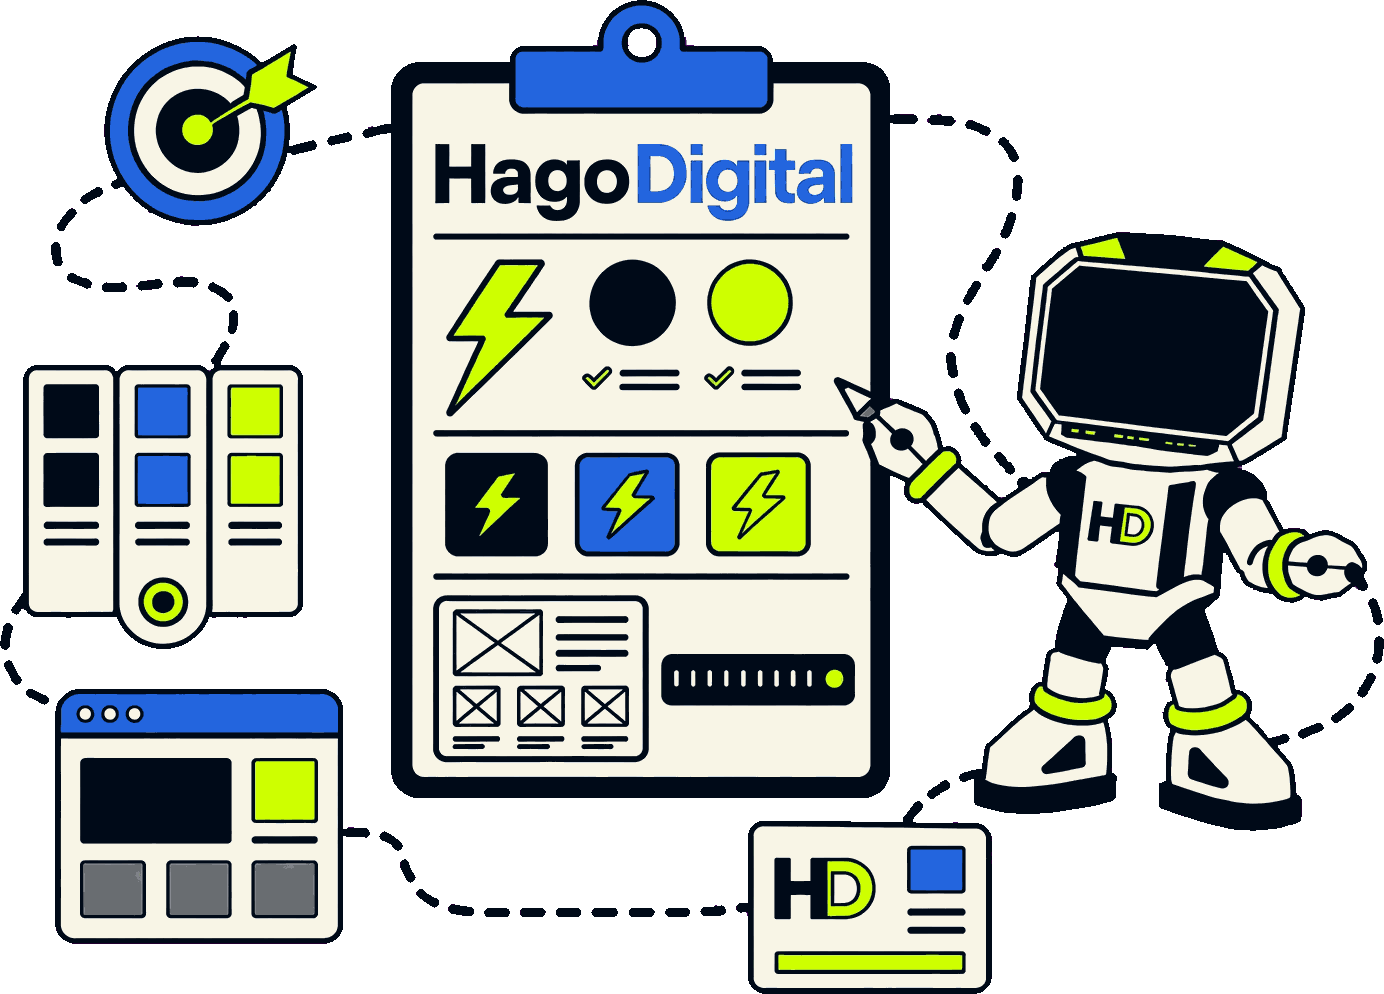
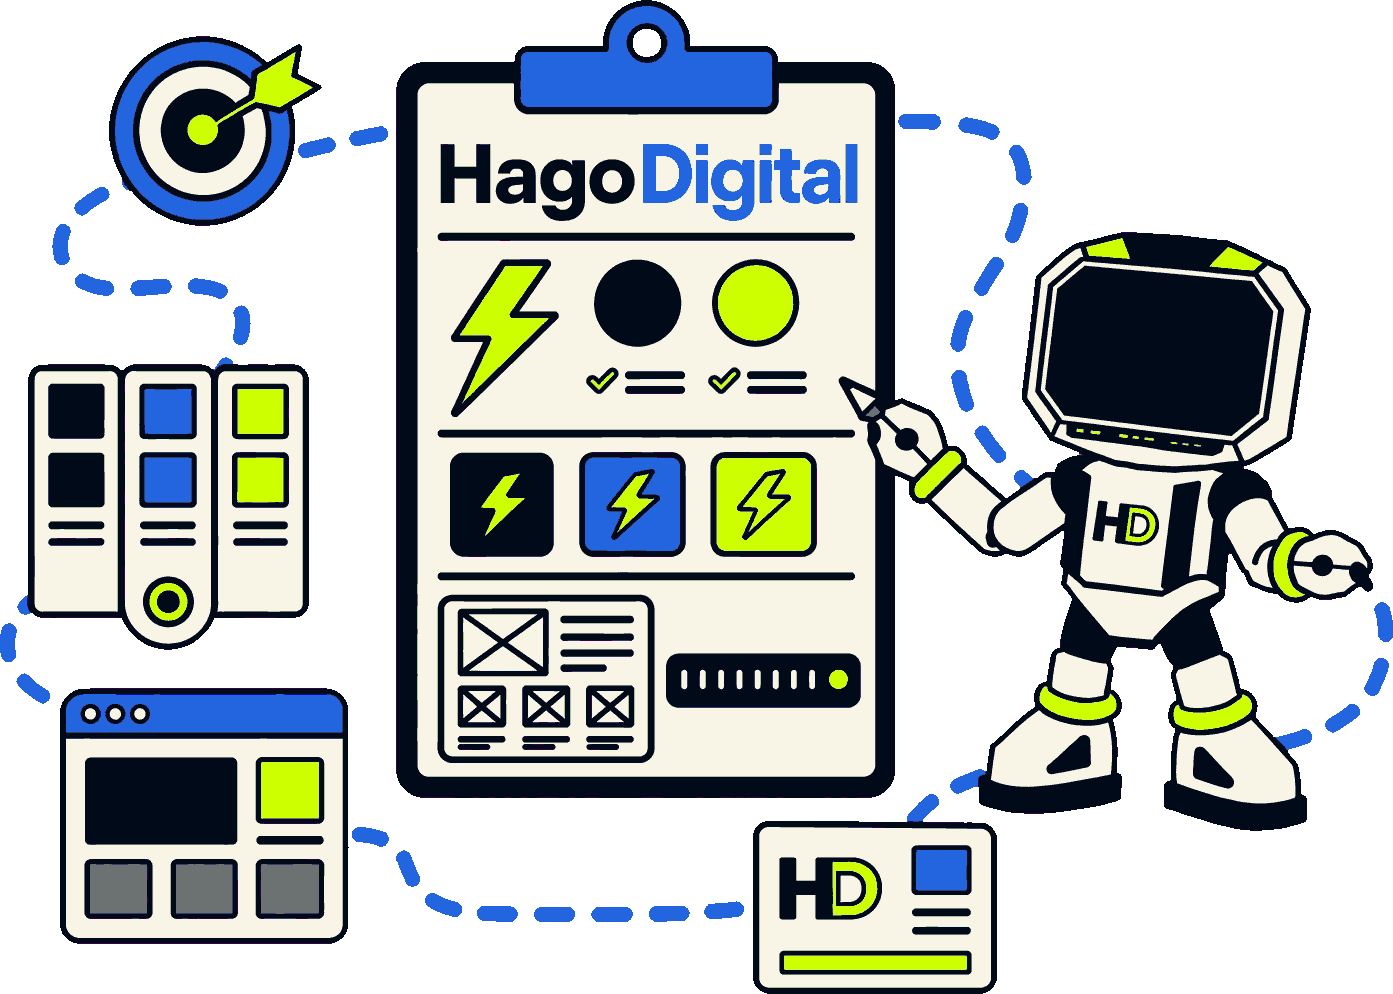
Deploy: sync site from workspace @ 33a0106

diff --git a/es/index.html b/es/index.html
@@ -145,7 +145,7 @@
       <p style="margin-top:16px"><a class="tlink" href="branding.html">Ver el sistema de marca completo <svg class="ar" width="13" height="13" viewBox="0 0 14 14" fill="none" aria-hidden="true"><path d="M3 11L11 3M11 3H5M11 3v6" stroke="currentColor" stroke-width="1.8" stroke-linecap="round" stroke-linejoin="round"/></svg></a></p>
     </div>
     <figure data-rise="right">
-      <img src="../assets/brand-identity.webp" width="1384" height="994"
+      <img src="../assets/brand-identity.webp" width="1393" height="994"
            alt="Tablero de identidad de marca: un portapapeles con el logotipo de HagoDigital, paleta de color, muestras tipogr&aacute;ficas, fichas de iconos y una maqueta de p&aacute;gina, con un abanico de muestras, una diana y Hago, el robot, alrededor.">
     </figure>
   </div>

diff --git a/index.html b/index.html
@@ -157,7 +157,7 @@
       <p style="margin-top:16px"><a class="tlink" href="branding.html">See the full brand system <svg class="ar" width="13" height="13" viewBox="0 0 14 14" fill="none" aria-hidden="true"><path d="M3 11L11 3M11 3H5M11 3v6" stroke="currentColor" stroke-width="1.8" stroke-linecap="round" stroke-linejoin="round"/></svg></a></p>
     </div>
     <figure data-rise="right">
-      <img src="assets/brand-identity.webp" width="1384" height="994"
+      <img src="assets/brand-identity.webp" width="1393" height="994"
            alt="Brand identity board: a clipboard carrying the HagoDigital wordmark, a colour palette, type samples, icon tiles and a page layout, with a swatch fan, a target and Hago the robot around it.">
     </figure>
   </div>
